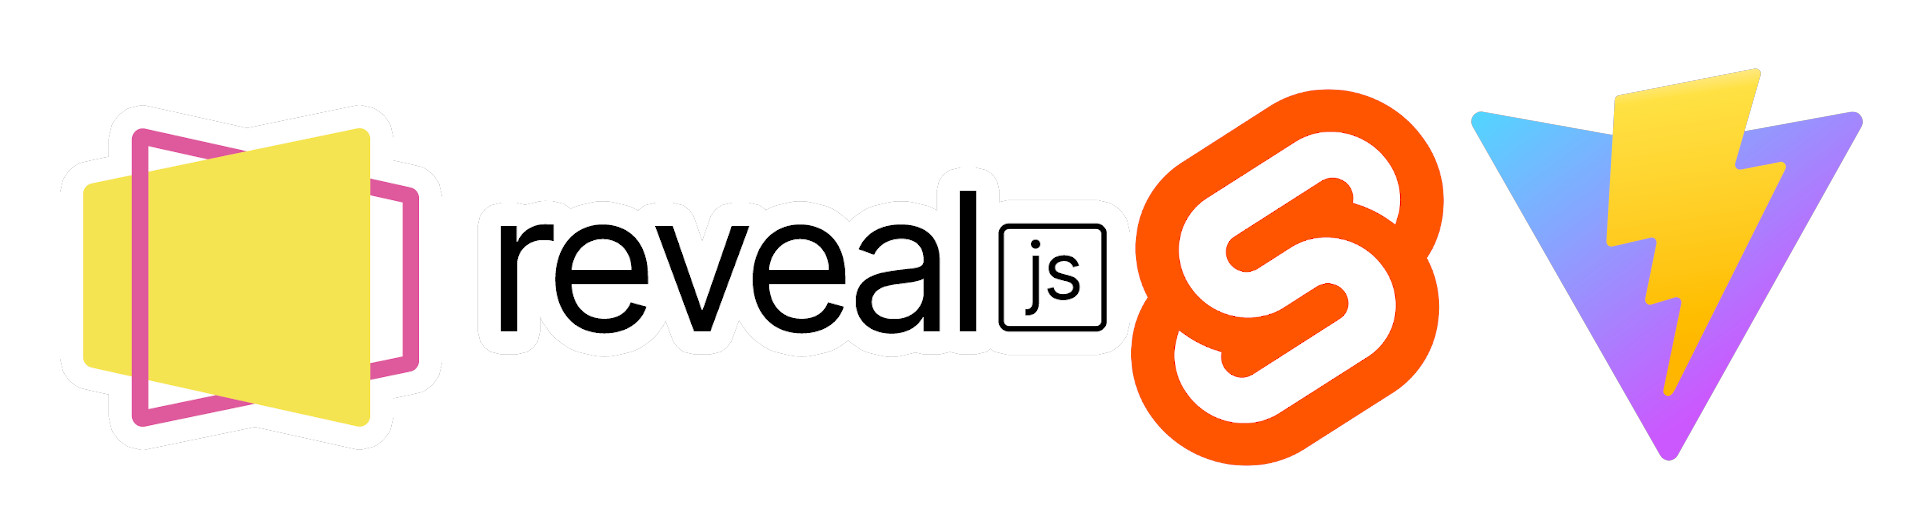
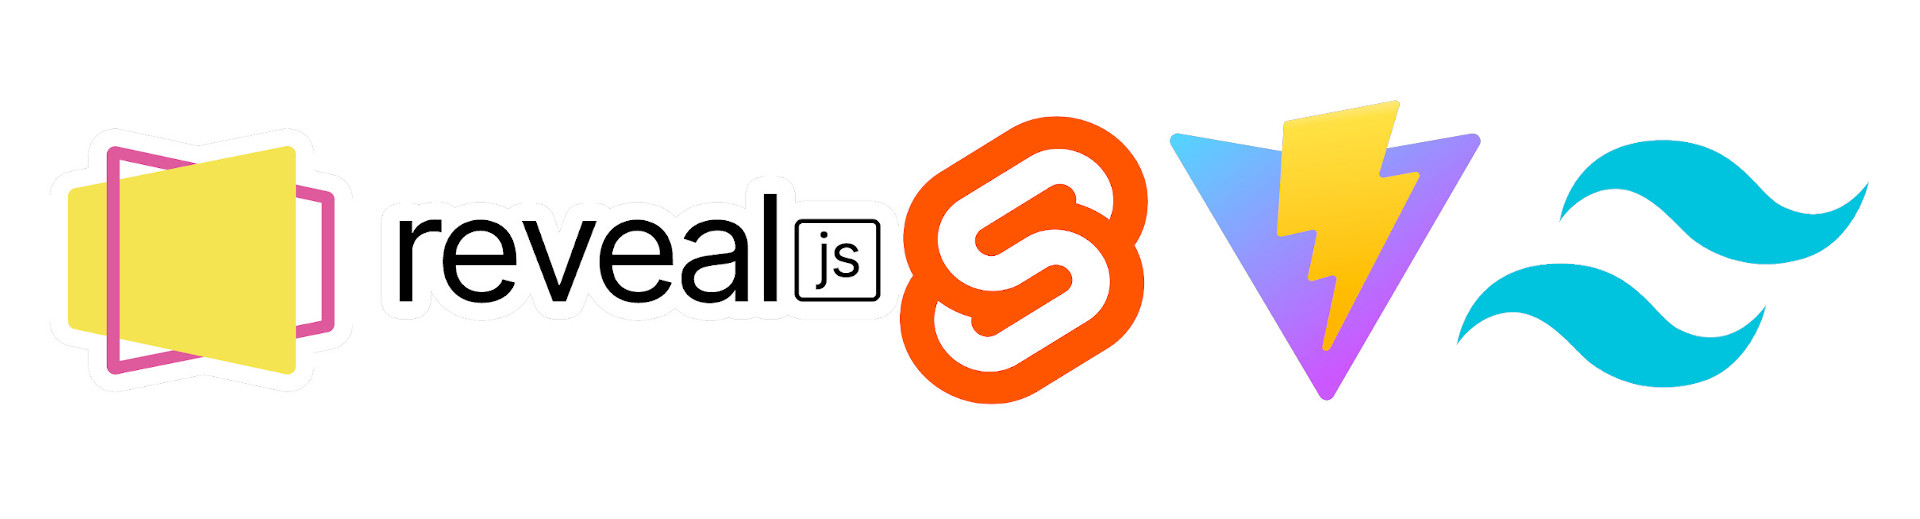
docs: update readme

Changed region(s): [[0.0312, 0.1233, 0.9688, 0.894]]

diff --git a/README.md b/README.md
@@ -1,8 +1,9 @@
-# Reveal.js + Svelte + Vite
+# Reveal.js + Svelte + Vite + TailwindCSS
 
 ![Svelte Slides logo](public/svelte-slides.jpg)
 
 This template should help get you started creating awesome slide decks using [Reveal.js](https://revealjs.com) with Svelte in Vite.
+You can also use [TailwindCSS](https://tailwindcss.com) utility classes to style your slide contents.
 
 ## How does it work?
 - Your slides are both Svelte components and Reveal.js slides.
@@ -99,6 +100,14 @@ A component for speaker notes
 Hello Everyone, I am using svelte-slides for this presentation
 </Notes>
 ```
+
+### Youtube
+A component embedding YouTube videos
+```
+<Youtube url="https://www.youtube.com/watch?v=1lcPGnRL4Qo"/>
+```
+
+Please refer to [/src/lib/Youtube.svelte](/src/lib/Youtube.svelte) for more information about the props.
 
 ## Inspiration
 This project is inspired by [svelte-reveal-boilerplate](https://github.com/micschwarz/svelte-reveal-boilerplate/) 
